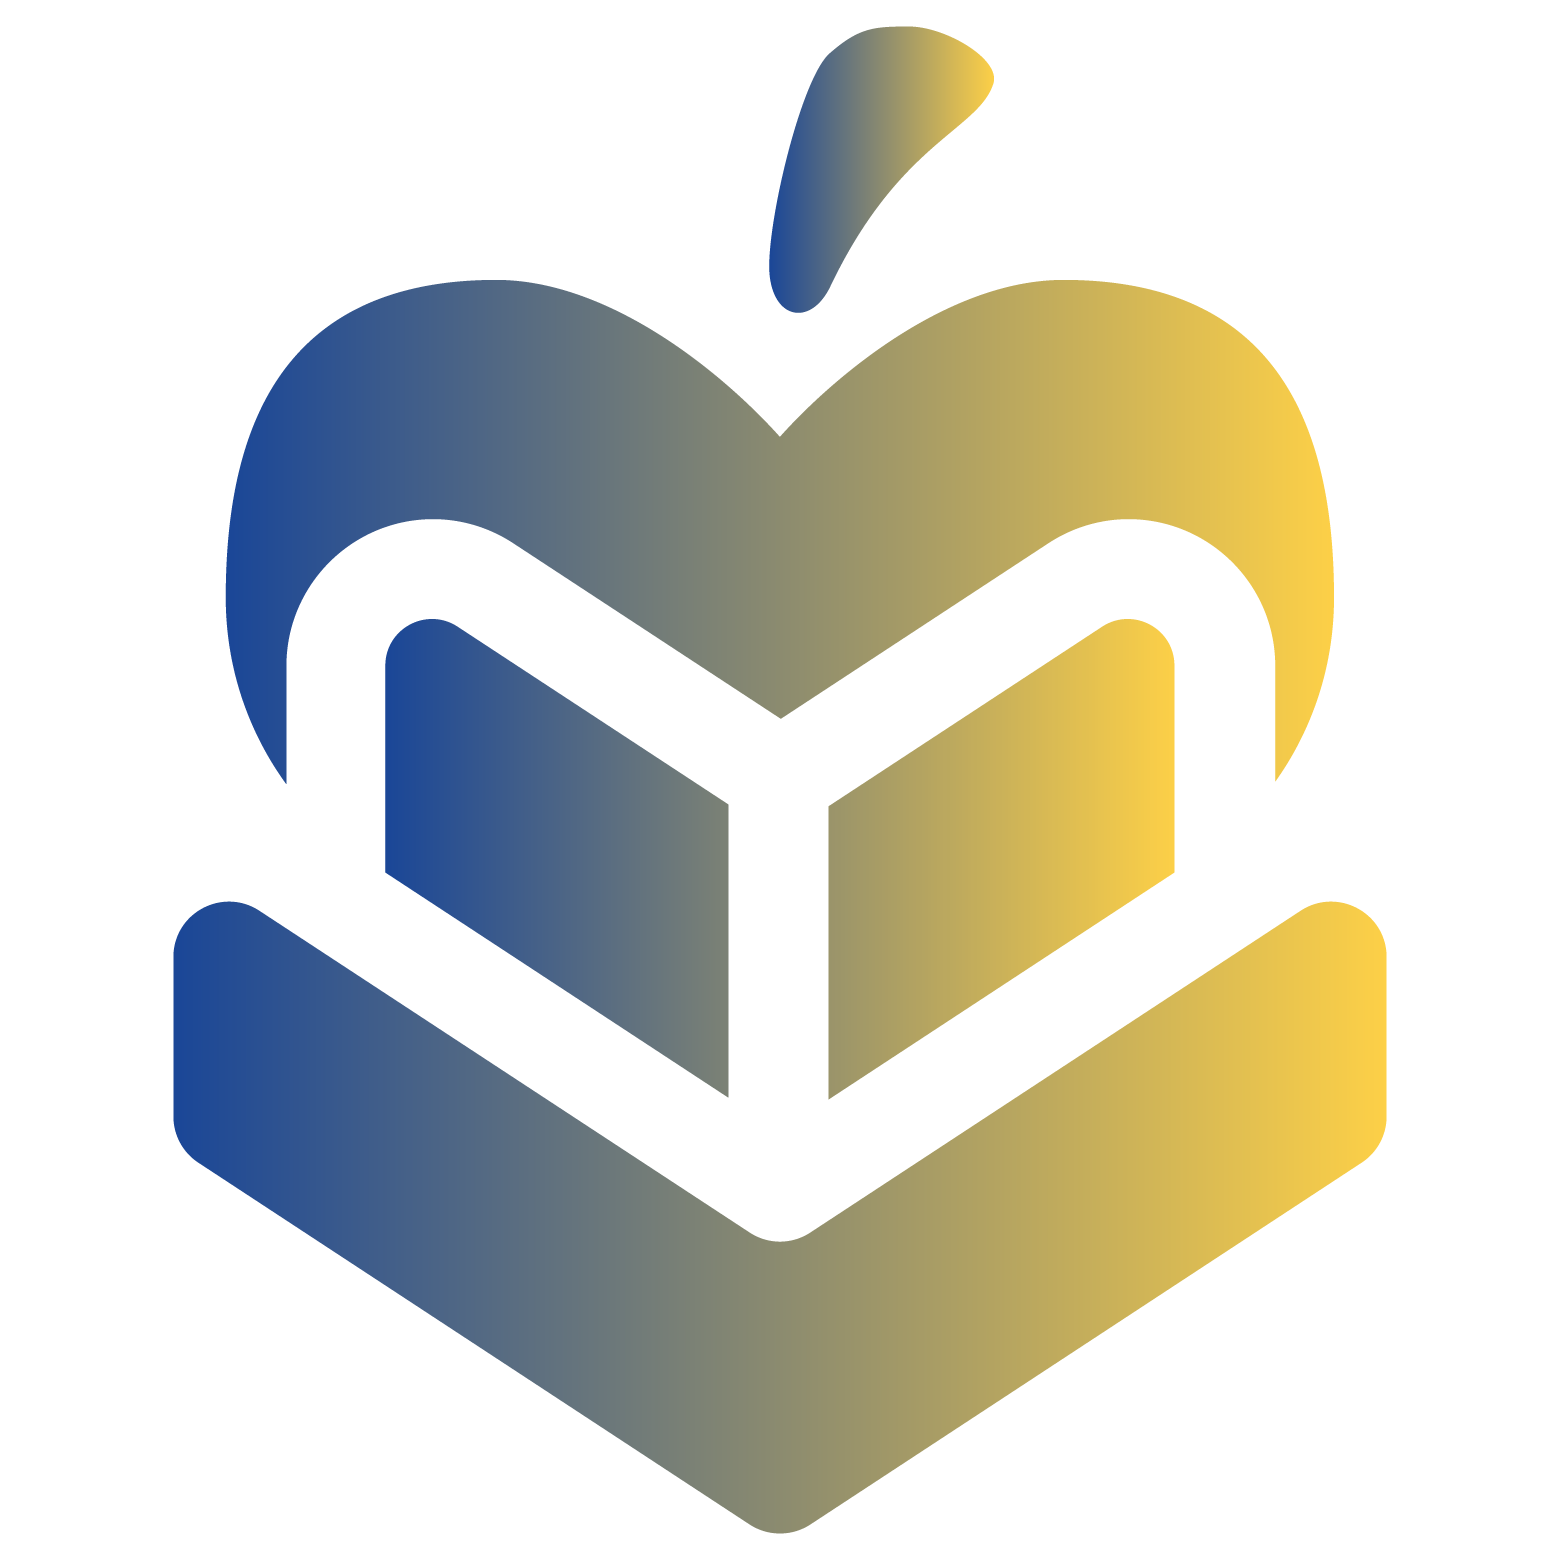
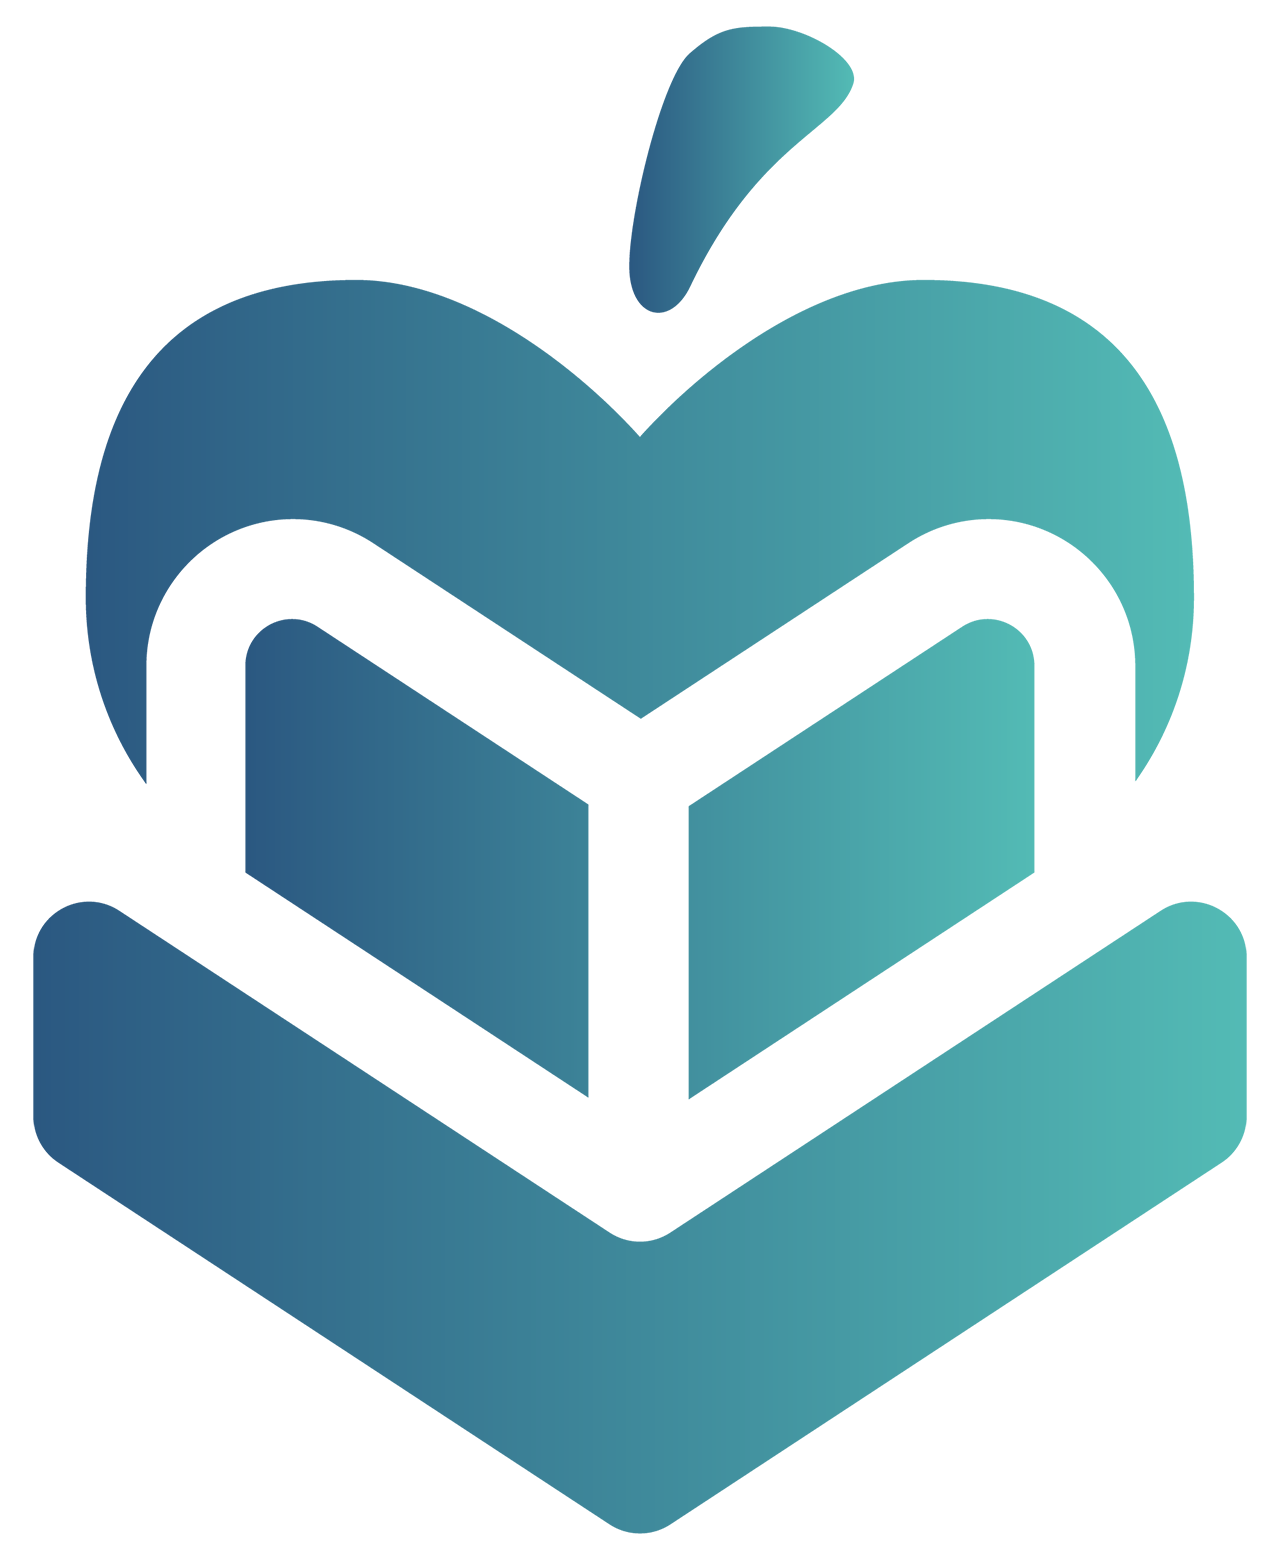
Minor UI fixes in clinic desktop app

diff --git a/clinic_desktop_app/lib/screens/patient_form_screen.dart b/clinic_desktop_app/lib/screens/patient_form_screen.dart
@@ -181,7 +181,10 @@ class _PatientFormScreenState extends State<PatientFormScreen> {
                         prefixIcon: Icon(Icons.person_outline),
                         counterText: '',
                       ),
-                      inputFormatters: [UpperCaseTextFormatter(), LengthLimitingTextInputFormatter(30)],
+                      inputFormatters: [
+                        UpperCaseTextFormatter(),
+                        LengthLimitingTextInputFormatter(30),
+                      ],
                       validator: (v) =>
                           v == null || v.trim().isEmpty ? 'Required' : null,
                     ),
@@ -196,7 +199,10 @@ class _PatientFormScreenState extends State<PatientFormScreen> {
                         prefixIcon: Icon(Icons.person_outline),
                         counterText: '',
                       ),
-                      inputFormatters: [UpperCaseTextFormatter(), LengthLimitingTextInputFormatter(30)],
+                      inputFormatters: [
+                        UpperCaseTextFormatter(),
+                        LengthLimitingTextInputFormatter(30),
+                      ],
                       validator: (v) =>
                           v == null || v.trim().isEmpty ? 'Required' : null,
                     ),
@@ -219,7 +225,10 @@ class _PatientFormScreenState extends State<PatientFormScreen> {
                         prefixIcon: Icon(Icons.person_outline),
                         counterText: '',
                       ),
-                      inputFormatters: [UpperCaseTextFormatter(), LengthLimitingTextInputFormatter(30)],
+                      inputFormatters: [
+                        UpperCaseTextFormatter(),
+                        LengthLimitingTextInputFormatter(30),
+                      ],
                     ),
                   ),
                   const SizedBox(width: 16),
@@ -254,7 +263,10 @@ class _PatientFormScreenState extends State<PatientFormScreen> {
                           labelText: 'Specify',
                           counterText: '',
                         ),
-                        inputFormatters: [UpperCaseTextFormatter(), LengthLimitingTextInputFormatter(5)],
+                        inputFormatters: [
+                          UpperCaseTextFormatter(),
+                          LengthLimitingTextInputFormatter(5),
+                        ],
                         validator: (v) =>
                             v == null || v.trim().isEmpty ? 'Required' : null,
                       ),
@@ -273,7 +285,10 @@ class _PatientFormScreenState extends State<PatientFormScreen> {
                   prefixIcon: Icon(Icons.badge_outlined),
                   counterText: '',
                 ),
-                inputFormatters: [UpperCaseTextFormatter(), LengthLimitingTextInputFormatter(16)],
+                inputFormatters: [
+                  UpperCaseTextFormatter(),
+                  LengthLimitingTextInputFormatter(16),
+                ],
                 validator: (v) => v == null || v.trim().isEmpty
                     ? 'ID number is required'
                     : null,
@@ -290,7 +305,10 @@ class _PatientFormScreenState extends State<PatientFormScreen> {
                   alignLabelWithHint: true,
                   counterText: '',
                 ),
-                inputFormatters: [UpperCaseTextFormatter(), LengthLimitingTextInputFormatter(150)],
+                inputFormatters: [
+                  UpperCaseTextFormatter(),
+                  LengthLimitingTextInputFormatter(150),
+                ],
                 minLines: 1,
                 maxLines: null,
                 keyboardType: TextInputType.multiline,
@@ -306,7 +324,10 @@ class _PatientFormScreenState extends State<PatientFormScreen> {
                   prefixIcon: Icon(Icons.family_restroom_outlined),
                   counterText: '',
                 ),
-                inputFormatters: [UpperCaseTextFormatter(), LengthLimitingTextInputFormatter(65)],
+                inputFormatters: [
+                  UpperCaseTextFormatter(),
+                  LengthLimitingTextInputFormatter(65),
+                ],
               ),
               const SizedBox(height: 16),
 

diff --git a/clinic_desktop_app/lib/screens/visitation_form_screen.dart b/clinic_desktop_app/lib/screens/visitation_form_screen.dart
@@ -221,7 +221,7 @@ class _VisitationFormScreenState extends State<VisitationFormScreen> {
                                       focusNode: focusNode,
                                       readOnly: widget.patientId != null,
                                       decoration: const InputDecoration(
-                                        labelText: 'Patient Name *',
+                                        labelText: 'Patient Name / ID Number *',
                                         prefixIcon: Icon(
                                           Icons.person_search_rounded,
                                         ),
@@ -390,7 +390,9 @@ class _VisitationFormScreenState extends State<VisitationFormScreen> {
                             alignLabelWithHint: true,
                             counterText: '',
                           ),
-                          inputFormatters: [LengthLimitingTextInputFormatter(150)],
+                          inputFormatters: [
+                            LengthLimitingTextInputFormatter(150),
+                          ],
                           maxLines: null,
                           keyboardType: TextInputType.multiline,
                         ),
@@ -406,7 +408,9 @@ class _VisitationFormScreenState extends State<VisitationFormScreen> {
                             alignLabelWithHint: true,
                             counterText: '',
                           ),
-                          inputFormatters: [LengthLimitingTextInputFormatter(150)],
+                          inputFormatters: [
+                            LengthLimitingTextInputFormatter(150),
+                          ],
                           maxLines: null,
                           keyboardType: TextInputType.multiline,
                         ),

diff --git a/clinic_desktop_app/lib/screens/dashboard_screen.dart b/clinic_desktop_app/lib/screens/dashboard_screen.dart
@@ -195,7 +195,7 @@ class _DashboardScreenState extends State<DashboardScreen> {
                     child: _SummaryCard(
                       icon: Icons.people_rounded,
                       label: 'Total Patients Recorded',
-                      value: '${patients.totalPatients}',
+                      value: '${patients.allPatientsCount}',
                       gradient: const LinearGradient(
                         colors: [
                           Color(0xFFF59E0B),
@@ -609,8 +609,13 @@ class _DashboardScreenState extends State<DashboardScreen> {
                       Text(
                         'ISKOLINIC',
                         style: GoogleFonts.audiowide(
-                          textStyle: Theme.of(context).textTheme.headlineSmall
-                              ?.copyWith(fontWeight: FontWeight.bold),
+                          textStyle: Theme.of(context)
+                              .textTheme
+                              .headlineSmall
+                              ?.copyWith(
+                                fontWeight: FontWeight.bold,
+                                color: const Color(0xFF1B6B7D),
+                              ),
                         ),
                       ),
                     ],

diff --git a/clinic_desktop_app/lib/providers/patient_provider.dart b/clinic_desktop_app/lib/providers/patient_provider.dart
@@ -29,6 +29,7 @@ class PatientProvider extends ChangeNotifier {
   // Paginated patient data
   List<Patient> _patients = [];
   int _totalPatients = 0;
+  int _allPatientsCount = 0;
   int _currentPage = 0;
   final int _pageSize = 10;
   String _searchQuery = '';
@@ -52,6 +53,7 @@ class PatientProvider extends ChangeNotifier {
 
   List<Patient> get patients => _patients;
   int get totalPatients => _totalPatients;
+  int get allPatientsCount => _allPatientsCount;
   int get currentPage => _currentPage;
   int get pageSize => _pageSize;
   int get totalPages => (_totalPatients / _pageSize).ceil();
@@ -110,8 +112,10 @@ class PatientProvider extends ChangeNotifier {
 
     final offset = _currentPage * _pageSize;
 
+    _allPatientsCount = await _db.getPatientCount();
+
     if (_searchQuery.isEmpty) {
-      _totalPatients = await _db.getPatientCount();
+      _totalPatients = _allPatientsCount;
       _patients = await _db.getPatientsPaginated(_pageSize, offset);
     } else {
       _totalPatients = await _db.searchPatientCount(_searchQuery);

diff --git a/clinic_desktop_app/lib/screens/patient_list_screen.dart b/clinic_desktop_app/lib/screens/patient_list_screen.dart
@@ -18,6 +18,13 @@ class _PatientListScreenState extends State<PatientListScreen> {
   final _searchController = TextEditingController();
 
   @override
+  void initState() {
+    super.initState();
+    final query = context.read<PatientProvider>().searchQuery;
+    _searchController.text = query;
+  }
+
+  @override
   void dispose() {
     _searchController.dispose();
     super.dispose();
@@ -53,7 +60,9 @@ class _PatientListScreenState extends State<PatientListScreen> {
                         ),
                         const SizedBox(height: 4),
                         Text(
-                          '$totalPatients total records',
+                          provider.searchQuery.isNotEmpty
+                              ? '$totalPatients search results'
+                              : '$totalPatients total records',
                           style: Theme.of(context).textTheme.bodyMedium,
                         ),
                       ],
